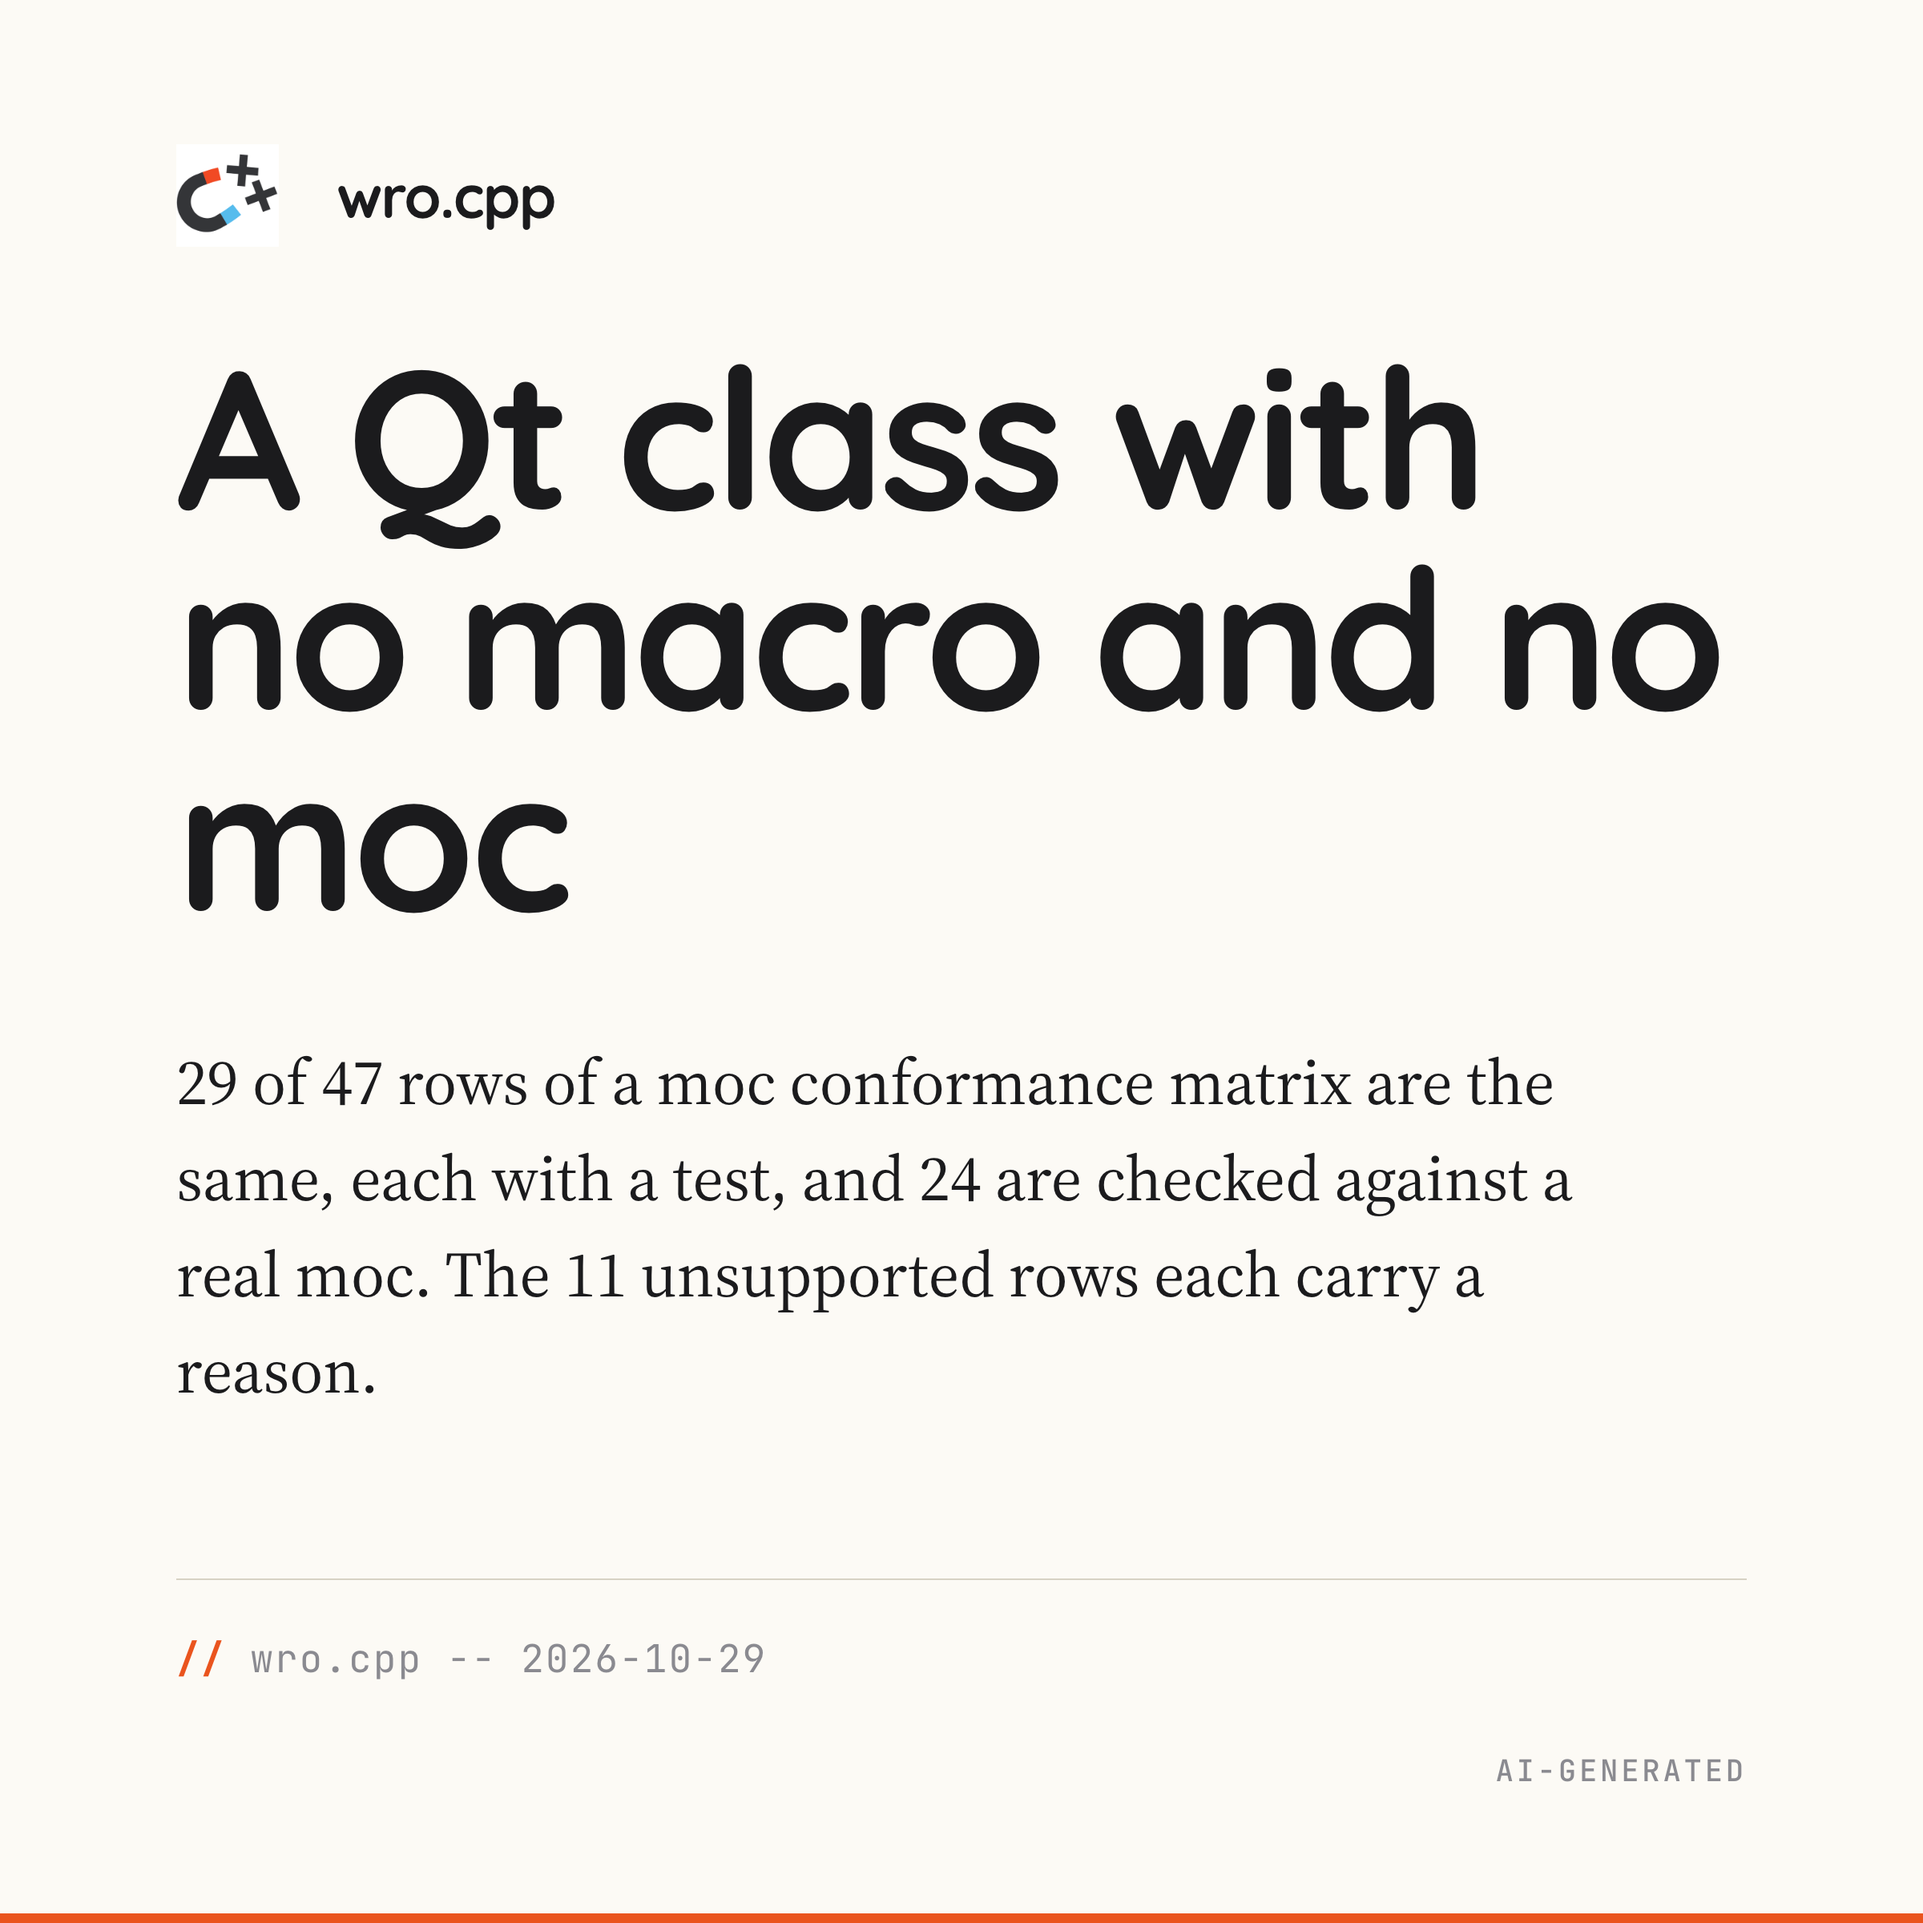
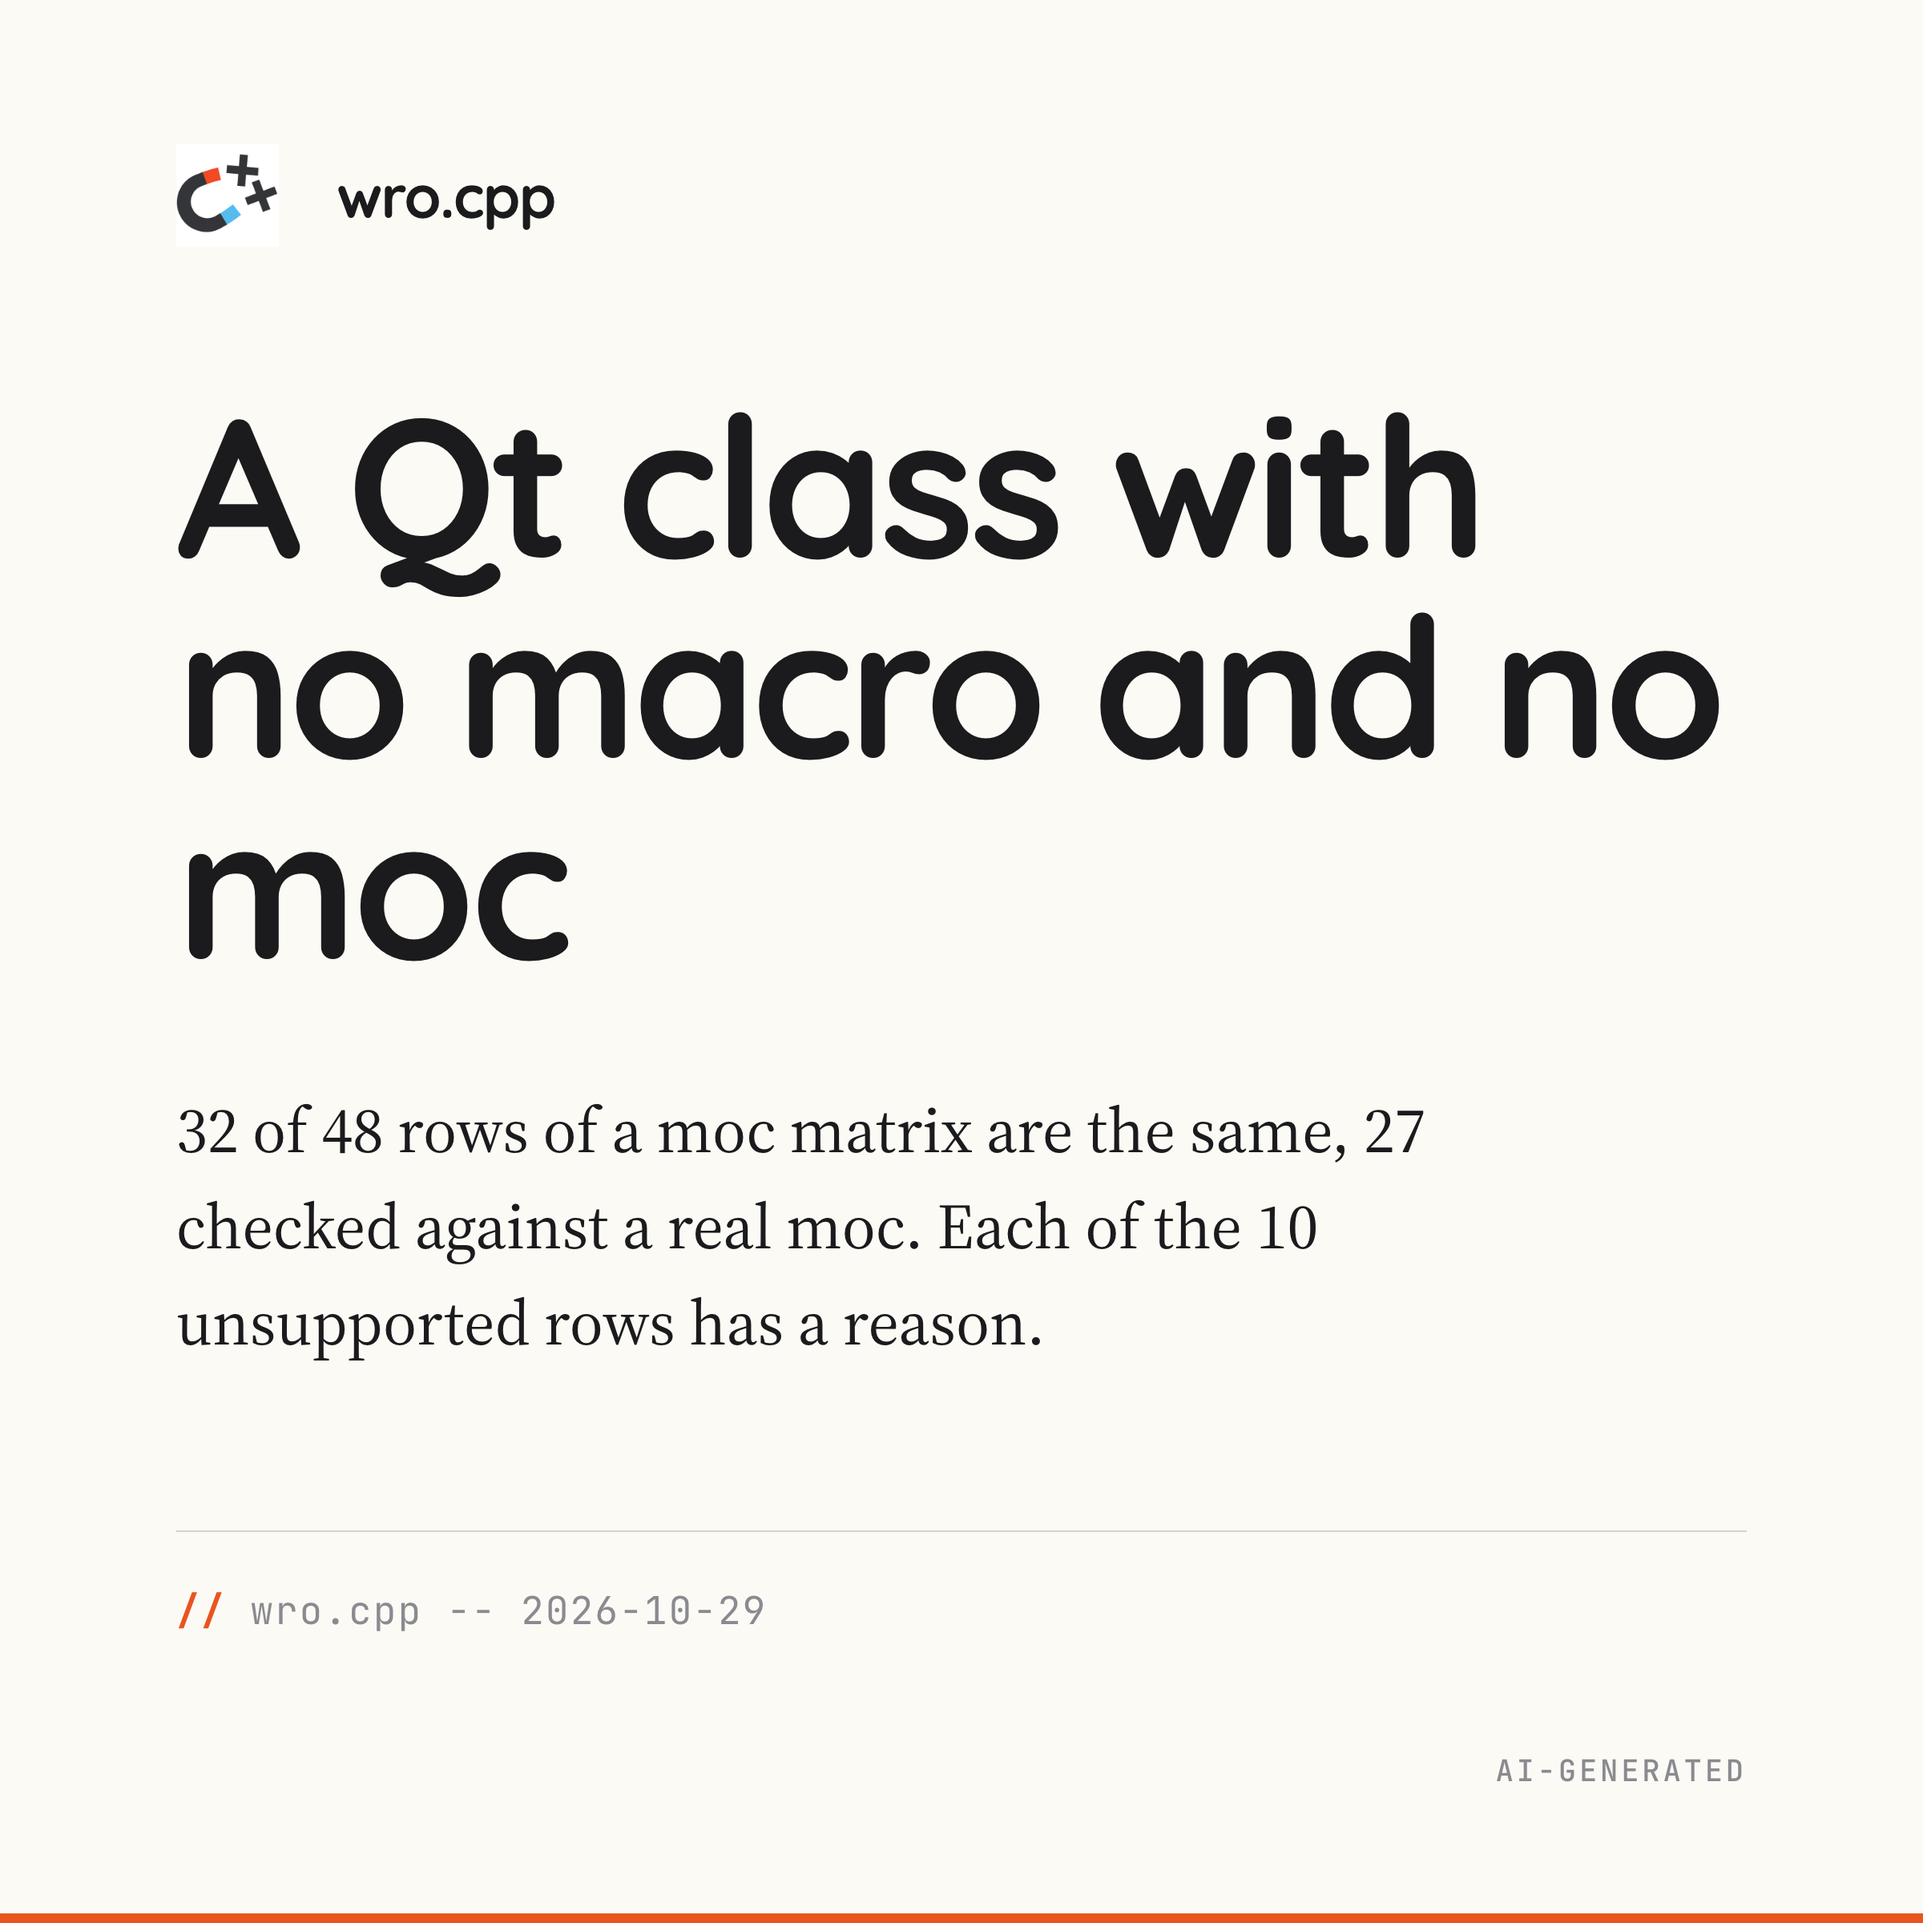
fix(post): the moc matrix post counts the rows as merged on 25 October
Reflect-moc #34 moved the overload rows to same and #35 fixed the QML tests: 48 rows, 32 same (27 against a real moc, 5 without a twin), 4 partial, 10 unsupported. The post, both captions and both cards carry the new counts, the closed-rows table lists the two new tests, and the README link is pinned to the merge commit 16c92da.

Claude-Session: https://claude.ai/code/session_01BTCmkp4nQKAhWT8TGXF9KX

diff --git a/social/facebook/moc-parity-matrix-reflection/index.html b/social/facebook/moc-parity-matrix-reflection/index.html
@@ -23,6 +23,6 @@
   </defs>
 </svg>
 
-<section class="card card-insight dark"><div class="grid-bg"></div><div class="glow"></div><div class="insight-content"><h1>A Qt class with no macro and no moc</h1><p>29 of 47 rows of a moc conformance matrix are the same, each with a test, and 24 are checked against a real moc. The 11 unsupported rows each carry a reason.</p><div class="insight-citation">wro.cpp -- 2026-10-29</div></div><div class="logo-watermark top-left"><svg viewBox="0 0 512 512" aria-hidden="true"><use href="#scudo-logo"/></svg><span class="logo-wordmark">ScudoAI</span></div><div class="ai-badge">AI-generated</div></section>
+<section class="card card-insight dark"><div class="grid-bg"></div><div class="glow"></div><div class="insight-content"><h1>A Qt class with no macro and no moc</h1><p>32 of 48 rows of a moc matrix are the same, 27 checked against a real moc. Each of the 10 unsupported rows has a reason.</p><div class="insight-citation">wro.cpp -- 2026-10-29</div></div><div class="logo-watermark top-left"><svg viewBox="0 0 512 512" aria-hidden="true"><use href="#scudo-logo"/></svg><span class="logo-wordmark">ScudoAI</span></div><div class="ai-badge">AI-generated</div></section>
 </body>
 </html>

diff --git a/social/linkedin/moc-parity-matrix-reflection/index.html b/social/linkedin/moc-parity-matrix-reflection/index.html
@@ -23,6 +23,6 @@
   </defs>
 </svg>
 
-<section class="card card-insight dark"><div class="grid-bg"></div><div class="glow"></div><div class="insight-content"><h1>A Qt class with no macro and no moc</h1><p>29 of 47 rows of a moc conformance matrix are the same, each with a test, and 24 are checked against a real moc. The 11 unsupported rows each carry a reason.</p><div class="insight-citation">wro.cpp -- 2026-10-29</div></div><div class="logo-watermark top-left"><svg viewBox="0 0 512 512" aria-hidden="true"><use href="#scudo-logo"/></svg><span class="logo-wordmark">ScudoAI</span></div><div class="ai-badge">AI-generated</div></section>
+<section class="card card-insight dark"><div class="grid-bg"></div><div class="glow"></div><div class="insight-content"><h1>A Qt class with no macro and no moc</h1><p>32 of 48 rows of a moc matrix are the same, 27 checked against a real moc. Each of the 10 unsupported rows has a reason.</p><div class="insight-citation">wro.cpp -- 2026-10-29</div></div><div class="logo-watermark top-left"><svg viewBox="0 0 512 512" aria-hidden="true"><use href="#scudo-logo"/></svg><span class="logo-wordmark">ScudoAI</span></div><div class="ai-badge">AI-generated</div></section>
 </body>
 </html>

diff --git a/social/linkedin/moc-parity-matrix-reflection/caption.md b/social/linkedin/moc-parity-matrix-reflection/caption.md
@@ -1,7 +1,7 @@
-# Replacing moc with reflection: 29 of 47 matrix rows match, and a class needs no macro
+# Replacing moc with reflection: 32 of 48 matrix rows match, and a class needs no macro
 
 ## Body
-I wrote down 47 things moc processes or generates, one row each, and tested every verdict. A "same" row builds the class for real moc next to the reflect-moc version and compares the two meta-objects row for row, then runs both. 29 rows are the same (24 checked against a real moc, 5 by behaviour moc cannot give), 5 differ in a way the note names, and 11 are not supported yet.
+I wrote down 48 things moc processes or generates, one row each, and tested every verdict. A "same" row builds the class for real moc next to the reflect-moc version and compares the two meta-objects row for row, then runs both. 32 rows are the same (27 checked against a real moc, 5 by behaviour moc cannot give), 4 differ in a way the note names, and 10 are not supported yet.
 
 A Qt class, a derived class, a widget class and a gadget now need no macro and no moc input. The base class finds the class it belongs to through a default template argument, so the class is never named twice.
 
@@ -13,7 +13,7 @@ https://wrocpp.github.io/posts/moc-parity-matrix-reflection/
 #cpp #cpp26 #reflection #qt #moc #wrocpp
 
 ## Alt-text
-wro.cpp card with the magnet logo. Headline reads "A Qt class with no macro and no moc" with a subtitle about 29 of 47 rows of a moc conformance matrix being the same, 24 checked against a real moc. Citation footer: wro.cpp, 2026-10-29.
+wro.cpp card with the magnet logo. Headline reads "A Qt class with no macro and no moc" with a subtitle about 32 of 48 rows of a moc conformance matrix being the same, 27 checked against a real moc. Citation footer: wro.cpp, 2026-10-29.
 
 ## Suggested post time
 Thursday 2026-10-29, 16:00 UTC

diff --git a/social/facebook/moc-parity-matrix-reflection/caption.md b/social/facebook/moc-parity-matrix-reflection/caption.md
@@ -1,7 +1,7 @@
-# Replacing moc with reflection: 29 of 47 matrix rows match, and a class needs no macro
+# Replacing moc with reflection: 32 of 48 matrix rows match, and a class needs no macro
 
 ## Body
-I listed 47 things moc does and tested each one against a real moc twin. 29 are the same (24 checked against a real moc), and a Qt class or a gadget now needs no macro at all. The open rows each have a stated reason.
+I listed 48 things moc does and tested each one. 32 are the same (27 checked against a real moc), and a Qt class or a gadget now needs no macro at all. The open rows each have a stated reason.
 
 https://wrocpp.github.io/posts/moc-parity-matrix-reflection/
 
@@ -9,7 +9,7 @@ https://wrocpp.github.io/posts/moc-parity-matrix-reflection/
 #cpp #cpp26 #qt #moc #wrocpp
 
 ## Alt-text
-wro.cpp card with the magnet logo. Headline reads "A Qt class with no macro and no moc" with a subtitle about 29 of 47 rows of a moc conformance matrix being the same, 24 checked against a real moc. Citation footer: wro.cpp, 2026-10-29.
+wro.cpp card with the magnet logo. Headline reads "A Qt class with no macro and no moc" with a subtitle about 32 of 48 rows of a moc conformance matrix being the same, 27 checked against a real moc. Citation footer: wro.cpp, 2026-10-29.
 
 ## Suggested post time
 Thursday 2026-10-29, 16:00 UTC

diff --git a/social/facebook/moc-parity-matrix-reflection/content.md b/social/facebook/moc-parity-matrix-reflection/content.md
@@ -6,7 +6,7 @@ template: social/linkedin-post
 
 :::insight{citation="wro.cpp -- 2026-10-29"}
 # A Qt class with no macro and no moc
-29 of 47 rows of a moc conformance matrix are the same, each with a test, and 24 are checked against a real moc. The 11 unsupported rows each carry a reason.
+32 of 48 rows of a moc matrix are the same, 27 checked against a real moc. Each of the 10 unsupported rows has a reason.
 :::
 
 ::::

diff --git a/social/linkedin/moc-parity-matrix-reflection/content.md b/social/linkedin/moc-parity-matrix-reflection/content.md
@@ -6,7 +6,7 @@ template: social/linkedin-post
 
 :::insight{citation="wro.cpp -- 2026-10-29"}
 # A Qt class with no macro and no moc
-29 of 47 rows of a moc conformance matrix are the same, each with a test, and 24 are checked against a real moc. The 11 unsupported rows each carry a reason.
+32 of 48 rows of a moc matrix are the same, 27 checked against a real moc. Each of the 10 unsupported rows has a reason.
 :::
 
 ::::
